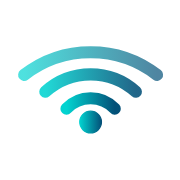
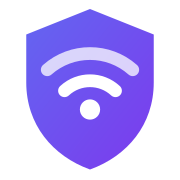
Redesign brand mark as WiFi+Shield and replace childish dashboard illustrations
The reviewer critique was that the old bare-arcs-and-dot WiFi glyph read as a
generic free-WiFi/cafe icon with no tie to the wordmark, wouldn't hold up as
a favicon, and that the "manager at a monitor" hero illustrations (main
dashboard, per-location dashboard corner accent) looked like consumer
clip-art for an enterprise product.

- New icon concept: WiFi signal + Shield, in the existing indigo/violet
  brand gradient (#6366f1 -> #7c3aed, already used across login/sidebar/
  hero styling) instead of the old teal gradient. One shield silhouette +
  a bold 2-arc/dot signal glyph -- verified legible down to 16x16 (favicon)
  and 24x24 via rendered PNG checks, no thin strokes that vanish at size.
- Regenerated mark-compact-{white,blue}.svg, mark-primary-blue.svg,
  lockup-horizontal{,-white}.svg (wordmark path left untouched, only the
  icon glyph swapped), favicon.svg, favicon.ico (16/32/48 all verified
  embedded), and apple-touch-icon-180.png from the new mark.
- customer.index.tsx: replaced HeroManagerIllustration's cartoon manager
  figure + cafe/hotel/coworking building badges with a network-topology
  scene -- the new shield mark as a central monitoring hub, a radar pulse
  ring, and three generic location-pin/signal-bar nodes on dashed lines.
- customer.$locationId.dashboard.tsx and customer.$locationId.$feature.tsx:
  replaced the duplicated DashboardWatchIllustration's cartoon figure with
  a mini version of the same shield mark, keeping the pulse-monitor/
[…]

diff --git a/src/routes/customer.index.tsx b/src/routes/customer.index.tsx
@@ -59,48 +59,66 @@ function CountUp({ target }: { target: number }) {
 }
 
 /**
- * Hero illustration: a manager at a monitor, watching over a café, a hotel,
- * and a coworking space -- flat filled shapes (not thin outline strokes)
- * connected to a pulsing WiFi orb by dashed signal lines, so the scene reads
- * as "one person watching over your venues" instead of a generic network
- * diagram. Replaces the earlier line-art router illustration and the
- * separate Coffee/Building2/Briefcase icon strip -- both ideas now live
- * inside this one illustration instead of being shown twice.
+ * Hero illustration: the Wyfy Guest shield-and-signal brand mark as a
+ * central monitoring hub, with a radar-style pulse ring and dashed signal
+ * lines fanning out to three location nodes -- flat filled shapes (not
+ * cartoon figures) so the scene reads as "your network, watched centrally"
+ * instead of a person-at-a-desk vignette. Replaces the earlier
+ * manager-at-a-monitor illustration (and its cafe/hotel/coworking building
+ * badges), which read as consumer/hospitality clip-art rather than
+ * enterprise network monitoring.
  *
- * Purely decorative -- aria-hidden. The signal-line draw-on is a one-time
- * entrance; the orb pulse and steam wisps loop, so both respect
- * useReducedMotion.
+ * Purely decorative -- aria-hidden. The signal-line draw-on and the radar
+ * ping are one-time/looping entrances respectively; both the ping and the
+ * hub glow collapse to a static state when the visitor prefers reduced
+ * motion.
  */
 function HeroManagerIllustration() {
   const shouldReduceMotion = useReducedMotion();
-  const badges = [
-    { key: "cafe", x: 336, y: 34, accent: "#f0abfc" },
-    { key: "hotel", x: 410, y: 92, accent: "#22d3ee" },
-    { key: "coworking", x: 346, y: 148, accent: "#a78bfa" },
+  const nodes = [
+    { key: "node-a", x: 336, y: 34, accent: "#f0abfc" },
+    { key: "node-b", x: 410, y: 92, accent: "#22d3ee" },
+    { key: "node-c", x: 346, y: 148, accent: "#a78bfa" },
   ];
-  const orb = { x: 153, y: 88 };
+  const hub = { x: 140, y: 112.5 };
+  const shieldPath =
+    "M140 55 L185.68 73.27 V107.67 C185.68 137.76 166.87 160.33 140 170 " +
+    "C113.13 160.33 94.32 137.76 94.32 107.67 V73.27 Z";
 
   return (
     <svg aria-hidden="true" viewBox="0 0 520 210" className="h-auto w-full max-w-[300px]" fill="none">
       <defs>
-        <filter id="mgr-illo-glow" x="-60%" y="-60%" width="220%" height="220%">
+        <filter id="net-illo-glow" x="-60%" y="-60%" width="220%" height="220%">
           <feGaussianBlur stdDeviation="14" />
         </filter>
-        <linearGradient id="mgr-monitor-bars" x1="0" y1="1" x2="0" y2="0">
-          <stop offset="0%" stopColor="#22d3ee" />
-          <stop offset="50%" stopColor="#a78bfa" />
-          <stop offset="100%" stopColor="#f0abfc" />
+        <linearGradient id="net-illo-shield" x1="94" y1="55" x2="186" y2="170" gradientUnits="userSpaceOnUse">
+          <stop offset="0%" stopColor="#6366f1" />
+          <stop offset="100%" stopColor="#7c3aed" />
         </linearGradient>
       </defs>
 
-      <circle cx="140" cy="130" r="70" fill="#7c3aed" opacity="0.18" filter="url(#mgr-illo-glow)" />
+      <circle cx="140" cy="112.5" r="78" fill="#7c3aed" opacity="0.18" filter="url(#net-illo-glow)" />
       <line x1="20" y1="192" x2="500" y2="192" stroke="white" strokeOpacity="0.12" strokeWidth="1" />
 
-      {badges.map((b, i) => (
+      {/* faint globe meridians behind the hub -- "network topology" flavor,
+          low-opacity so it reads as texture, not a competing shape */}
+      <ellipse cx="140" cy="112.5" rx="98" ry="98" stroke="white" strokeOpacity="0.07" strokeWidth="1" fill="none" />
+      <ellipse cx="140" cy="112.5" rx="40" ry="98" stroke="white" strokeOpacity="0.06" strokeWidth="1" fill="none" />
+
+      {/* one-time radar ping expanding out from the hub */}
+      <motion.circle
+        cx={hub.x} cy={hub.y} r="46" stroke="#a78bfa" strokeWidth="1.5" fill="none"
+        initial={shouldReduceMotion ? false : { opacity: 0.5, scale: 0.4 }}
+        animate={shouldReduceMotion ? { opacity: 0 } : { opacity: [0.5, 0], scale: [0.4, 1.3] }}
+        transition={shouldReduceMotion ? undefined : { duration: 2.8, repeat: Infinity, ease: "easeOut" }}
+        style={{ transformOrigin: `${hub.x}px ${hub.y}px` }}
+      />
+
+      {nodes.map((n, i) => (
         <motion.path
-          key={`line-${b.key}`}
-          d={`M${orb.x} ${orb.y} Q${(orb.x + b.x) / 2} ${Math.min(orb.y, b.y) - 20} ${b.x} ${b.y + 22}`}
-          stroke={b.accent}
+          key={`line-${n.key}`}
+          d={`M${hub.x} ${hub.y} Q${(hub.x + n.x) / 2} ${Math.min(hub.y, n.y) - 20} ${n.x} ${n.y + 22}`}
+          stroke={n.accent}
           strokeOpacity="0.55"
           strokeWidth="2"
           strokeDasharray="1 6"
@@ -111,68 +129,31 @@ function HeroManagerIllustration() {
         />
       ))}
 
-      <rect x="95" y="150" width="112" height="13" rx="6" fill="#2e2a5c" />
-      <rect x="95" y="150" width="112" height="4" rx="2" fill="#f0abfc" fillOpacity="0.25" />
-
-      <path d="M113 192c-3-34 5-56 27-56h6c22 0 30 22 27 56z" fill="#f5f0ff" />
-      <path d="M119 150c0-14 8-24 21-24s21 10 21 24" fill="#7c3aed" fillOpacity="0.9" />
-      <circle cx="140" cy="112" r="18" fill="#f5f0ff" />
-      <path d="M122 104c0-11 8-19 18-19s18 8 18 19c-6-4-13-6-18-6s-12 2-18 6z" fill="#7c3aed" />
-      <circle cx="134" cy="113" r="1.8" fill="#1e1b4b" />
-      <circle cx="146" cy="113" r="1.8" fill="#1e1b4b" />
-      <path d="M134 120c2 2 6 2 8 0" stroke="#1e1b4b" strokeWidth="1.6" strokeLinecap="round" fill="none" />
-
-      <path d="M176 146h14a5 5 0 0 1 5 5v3a6 6 0 0 1-6 6h-13a6 6 0 0 1-6-6v-3a5 5 0 0 1 5-5z" fill="#f0abfc" />
-      <path d="M195 149h3a3 3 0 0 1 0 6h-3" stroke="#f0abfc" strokeWidth="2" fill="none" />
-      {[0, 1].map((i) => (
-        <motion.path
-          key={`steam-${i}`}
-          d={`M${182 + i * 8} 142c2-4-2-6 0-10`}
-          stroke="white"
-          strokeOpacity="0.35"
-          strokeWidth="1.6"
-          strokeLinecap="round"
-          fill="none"
-          animate={shouldReduceMotion ? { opacity: 0.3 } : { y: [0, -4, 0], opacity: [0.15, 0.4, 0.15] }}
-          transition={shouldReduceMotion ? undefined : { duration: 2.4, repeat: Infinity, delay: i * 0.4, ease: "easeInOut" }}
-        />
-      ))}
-
-      <rect x="128" y="110" width="48" height="34" rx="5" fill="#1e1b4b" stroke="white" strokeOpacity="0.15" strokeWidth="1.5" />
-      {[0, 1, 2].map((i) => (
-        <rect key={`bar-${i}`} x={140 + i * 9} y={136 - (i + 1) * 6} width="5" height={(i + 1) * 6} rx="1.5" fill="url(#mgr-monitor-bars)" />
-      ))}
-
+      {/* central hub -- the brand shield-and-signal mark, scaled up (same
+          proportions as public/brand/mark-*-blue.svg's shield+signal glyph:
+          gradient shield fill, solid white signal glyph on top), so the
+          hero literally is the logo watching over the network. */}
+      <path d={shieldPath} fill="url(#net-illo-shield)" />
+      <path d="M109.37 98.53a46.22 46.22 0 0 1 61.26 0" stroke="#ffffff" strokeWidth="9.14" strokeLinecap="round" fill="none" opacity="0.75" />
+      <path d="M121.73 113.58a26.87 26.87 0 0 1 36.54 0" stroke="#ffffff" strokeWidth="9.14" strokeLinecap="round" fill="none" />
       <motion.circle
-        cx={orb.x} cy={orb.y} r="9" fill="#22d3ee" filter="url(#mgr-illo-glow)"
-        animate={shouldReduceMotion ? { opacity: 0.35 } : { opacity: [0.2, 0.45, 0.2], scale: [1, 1.25, 1] }}
+        cx="140" cy="127.01" r="7.26" fill="#ffffff"
+        animate={shouldReduceMotion ? { opacity: 1 } : { opacity: [0.75, 1, 0.75] }}
         transition={shouldReduceMotion ? undefined : { duration: 2.6, repeat: Infinity, ease: "easeInOut" }}
       />
-      <circle cx={orb.x} cy={orb.y} r="5" fill="#22d3ee" />
 
-      <g transform={`translate(${badges[0].x}, ${badges[0].y})`}>
-        <rect width="54" height="46" rx="12" fill="#2e2a5c" stroke="white" strokeOpacity="0.12" />
-        <path d="M15 20h18a4 4 0 0 1 4 4v3a9 9 0 0 1-9 9h-8a9 9 0 0 1-9-9v-3a4 4 0 0 1 4-4z" fill="#f0abfc" />
-        <path d="M37 22h3a3 3 0 0 1 0 6h-3" stroke="#f0abfc" strokeWidth="2" fill="none" />
-        <path d="M20 14c1-2-1-3 0-5" stroke="white" strokeOpacity="0.4" strokeWidth="1.4" strokeLinecap="round" fill="none" />
-      </g>
-
-      <g transform={`translate(${badges[1].x}, ${badges[1].y})`}>
-        <rect width="54" height="46" rx="12" fill="#2e2a5c" stroke="white" strokeOpacity="0.12" />
-        <rect x="14" y="10" width="26" height="28" rx="3" fill="#22d3ee" />
-        <rect x="19" y="16" width="4" height="4" fill="#1e1b4b" />
-        <rect x="27" y="16" width="4" height="4" fill="#1e1b4b" />
-        <rect x="19" y="24" width="4" height="4" fill="#1e1b4b" />
-        <rect x="27" y="24" width="4" height="4" fill="#1e1b4b" />
-        <rect x="23" y="32" width="8" height="6" fill="#1e1b4b" />
-      </g>
-
-      <g transform={`translate(${badges[2].x}, ${badges[2].y})`}>
-        <rect width="54" height="46" rx="12" fill="#2e2a5c" stroke="white" strokeOpacity="0.12" />
-        <rect x="12" y="16" width="30" height="18" rx="2" fill="#a78bfa" />
-        <rect x="16" y="20" width="22" height="10" rx="1" fill="#1e1b4b" />
-        <rect x="10" y="34" width="34" height="4" rx="2" fill="#a78bfa" fillOpacity="0.6" />
-      </g>
+      {/* three location nodes -- a pin + rising signal bars each, standing
+          in for "your venues" without a literal building/venue-type icon */}
+      {nodes.map((n) => (
+        <g key={`badge-${n.key}`} transform={`translate(${n.x}, ${n.y})`}>
+          <rect width="54" height="46" rx="12" fill="#2e2a5c" stroke="white" strokeOpacity="0.12" />
+          <path d="M20 30c-6-8-9-14-9-19a9 9 0 0 1 18 0c0 5-3 11-9 19z" fill={n.accent} />
+          <circle cx="20" cy="11" r="3.4" fill="#1e1b4b" />
+          {[0, 1, 2].map((i) => (
+            <rect key={`bar-${i}`} x={34 + i * 6} y={30 - (i + 1) * 5} width="4" height={(i + 1) * 5} rx="1.2" fill={n.accent} fillOpacity={0.45 + i * 0.22} />
+          ))}
+        </g>
+      ))}
     </svg>
   );
 }

diff --git a/src/routes/customer.$locationId.dashboard.tsx b/src/routes/customer.$locationId.dashboard.tsx
@@ -389,14 +389,17 @@ function WanStatusCard({ locationId, onManage }: { locationId: string; onManage:
 }
 
 /**
- * Compact corner illustration for the Dashboard hero card: a small figure
- * beside a live pulse-monitor with a calm "all clear" checkmark, and a
- * signal-bars motif -- same filled-flat-shape character language as the
- * Select Location page's HeroManagerIllustration, but a quieter pose sized
+ * Compact corner illustration for the Dashboard hero card: a mini brand
+ * shield-and-signal mark beside a live pulse-monitor with a calm "all
+ * clear" checkmark, and a signal-bars motif -- same filled-flat-shape
+ * character language as the Select Location page's hero illustration
+ * (both now built from the same shield mark), but a quieter pose sized
  * for a hero-card corner accent rather than a full side panel, since this
  * page is a data-first "check the numbers" moment, not a "which venue"
  * moment. Kept small and semi-transparent so it never competes with the
- * three big KPI numbers already carrying this card.
+ * three big KPI numbers already carrying this card. Replaces the earlier
+ * cartoon figure, which read as consumer clip-art rather than enterprise
+ * network monitoring.
  *
  * Purely decorative -- aria-hidden. The pulse sweep and "all clear" ring
  * loop, so both respect useReducedMotion.
@@ -418,6 +421,10 @@ function DashboardWatchIllustration() {
         <linearGradient id="watch-pulse-stroke" x1="0" y1="0" x2="1" y2="0">
           <stop offset="0%" stopColor="#22d3ee" />
           <stop offset="100%" stopColor="#f0abfc" />
+        </linearGradient>
+        <linearGradient id="watch-shield-grad" x1="54" y1="114" x2="115" y2="190" gradientUnits="userSpaceOnUse">
+          <stop offset="0%" stopColor="#6366f1" />
+          <stop offset="100%" stopColor="#7c3aed" />
         </linearGradient>
       </defs>
 
@@ -447,14 +454,10 @@ function DashboardWatchIllustration() {
         <path d="M222 54l4 4 8-8" stroke="#22d3ee" strokeWidth="2.2" strokeLinecap="round" strokeLinejoin="round" fill="none" />
       </motion.g>
 
-      <path d="M62 190c-3-30 4-48 20-48h4c16 0 23 18 20 48z" fill="#f5f0ff" />
-      <path d="M68 152c0-12 7-21 18-21s18 9 18 21c-5-3-11-5-18-5s-13 2-18 5z" fill="#7c3aed" />
-      <circle cx="86" cy="130" r="16" fill="#f5f0ff" />
-      <path d="M70 123c0-10 7-17 16-17s16 7 16 17c-5-3-10-5-16-5s-11 2-16 5z" fill="#7c3aed" />
-      <circle cx="80" cy="131" r="1.6" fill="#1e1b4b" />
-      <circle cx="91" cy="131" r="1.6" fill="#1e1b4b" />
-      <path d="M81 137c1.6 1.6 4.8 1.6 6.4 0" stroke="#1e1b4b" strokeWidth="1.4" strokeLinecap="round" fill="none" />
-      <path d="M100 160c8-3 14-10 17-19" stroke="#7c3aed" strokeWidth="3" strokeLinecap="round" fill="none" />
+      <path d="M84.5 116 L112.68 127.07 V147.8 C112.68 165.69 101.25 179.6 84.5 185.5 C67.75 179.6 56.32 165.69 56.32 147.8 V127.07 Z" fill="url(#watch-shield-grad)" />
+      <path d="M65.26 138.76a27.54 27.54 0 0 1 38.48 0" stroke="#ffffff" strokeWidth="5.45" strokeLinecap="round" fill="none" opacity="0.75" />
+      <path d="M73.43 148.71a16.76 16.76 0 0 1 22.15 0" stroke="#ffffff" strokeWidth="5.45" strokeLinecap="round" fill="none" />
+      <circle cx="84.5" cy="157.58" r="4.3" fill="#ffffff" />
 
       <g>
         {[0, 1, 2, 3].map((i) => (

diff --git a/src/routes/customer.$locationId.$feature.tsx b/src/routes/customer.$locationId.$feature.tsx
@@ -194,14 +194,17 @@ const DASHBOARD_QUOTES = [
 ];
 
 /**
- * Compact corner illustration for the Dashboard hero card: a small figure
- * beside a live pulse-monitor with a calm "all clear" checkmark, and a
- * signal-bars motif -- same filled-flat-shape character language as the
- * Select Location page's HeroManagerIllustration, but a quieter pose sized
+ * Compact corner illustration for the Dashboard hero card: a mini brand
+ * shield-and-signal mark beside a live pulse-monitor with a calm "all
+ * clear" checkmark, and a signal-bars motif -- same filled-flat-shape
+ * character language as the Select Location page's hero illustration
+ * (both now built from the same shield mark), but a quieter pose sized
  * for a hero-card corner accent rather than a full side panel, since this
  * page is a data-first "check the numbers" moment, not a "which venue"
  * moment. Kept small and semi-transparent so it never competes with the
- * three big KPI numbers already carrying this card.
+ * three big KPI numbers already carrying this card. Replaces the earlier
+ * cartoon figure, which read as consumer clip-art rather than enterprise
+ * network monitoring.
  *
  * Purely decorative -- aria-hidden. The pulse sweep and "all clear" ring
  * loop, so both respect useReducedMotion.
@@ -223,6 +226,10 @@ function DashboardWatchIllustration() {
         <linearGradient id="watch-pulse-stroke" x1="0" y1="0" x2="1" y2="0">
           <stop offset="0%" stopColor="#22d3ee" />
           <stop offset="100%" stopColor="#f0abfc" />
+        </linearGradient>
+        <linearGradient id="watch-shield-grad" x1="54" y1="114" x2="115" y2="190" gradientUnits="userSpaceOnUse">
+          <stop offset="0%" stopColor="#6366f1" />
+          <stop offset="100%" stopColor="#7c3aed" />
         </linearGradient>
       </defs>
 
@@ -252,14 +259,10 @@ function DashboardWatchIllustration() {
         <path d="M222 54l4 4 8-8" stroke="#22d3ee" strokeWidth="2.2" strokeLinecap="round" strokeLinejoin="round" fill="none" />
       </motion.g>
 
-      <path d="M62 190c-3-30 4-48 20-48h4c16 0 23 18 20 48z" fill="#f5f0ff" />
-      <path d="M68 152c0-12 7-21 18-21s18 9 18 21c-5-3-11-5-18-5s-13 2-18 5z" fill="#7c3aed" />
-      <circle cx="86" cy="130" r="16" fill="#f5f0ff" />
-      <path d="M70 123c0-10 7-17 16-17s16 7 16 17c-5-3-10-5-16-5s-11 2-16 5z" fill="#7c3aed" />
-      <circle cx="80" cy="131" r="1.6" fill="#1e1b4b" />
-      <circle cx="91" cy="131" r="1.6" fill="#1e1b4b" />
-      <path d="M81 137c1.6 1.6 4.8 1.6 6.4 0" stroke="#1e1b4b" strokeWidth="1.4" strokeLinecap="round" fill="none" />
-      <path d="M100 160c8-3 14-10 17-19" stroke="#7c3aed" strokeWidth="3" strokeLinecap="round" fill="none" />
+      <path d="M84.5 116 L112.68 127.07 V147.8 C112.68 165.69 101.25 179.6 84.5 185.5 C67.75 179.6 56.32 165.69 56.32 147.8 V127.07 Z" fill="url(#watch-shield-grad)" />
+      <path d="M65.26 138.76a27.54 27.54 0 0 1 38.48 0" stroke="#ffffff" strokeWidth="5.45" strokeLinecap="round" fill="none" opacity="0.75" />
+      <path d="M73.43 148.71a16.76 16.76 0 0 1 22.15 0" stroke="#ffffff" strokeWidth="5.45" strokeLinecap="round" fill="none" />
+      <circle cx="84.5" cy="157.58" r="4.3" fill="#ffffff" />
 
       <g>
         {[0, 1, 2, 3].map((i) => (
